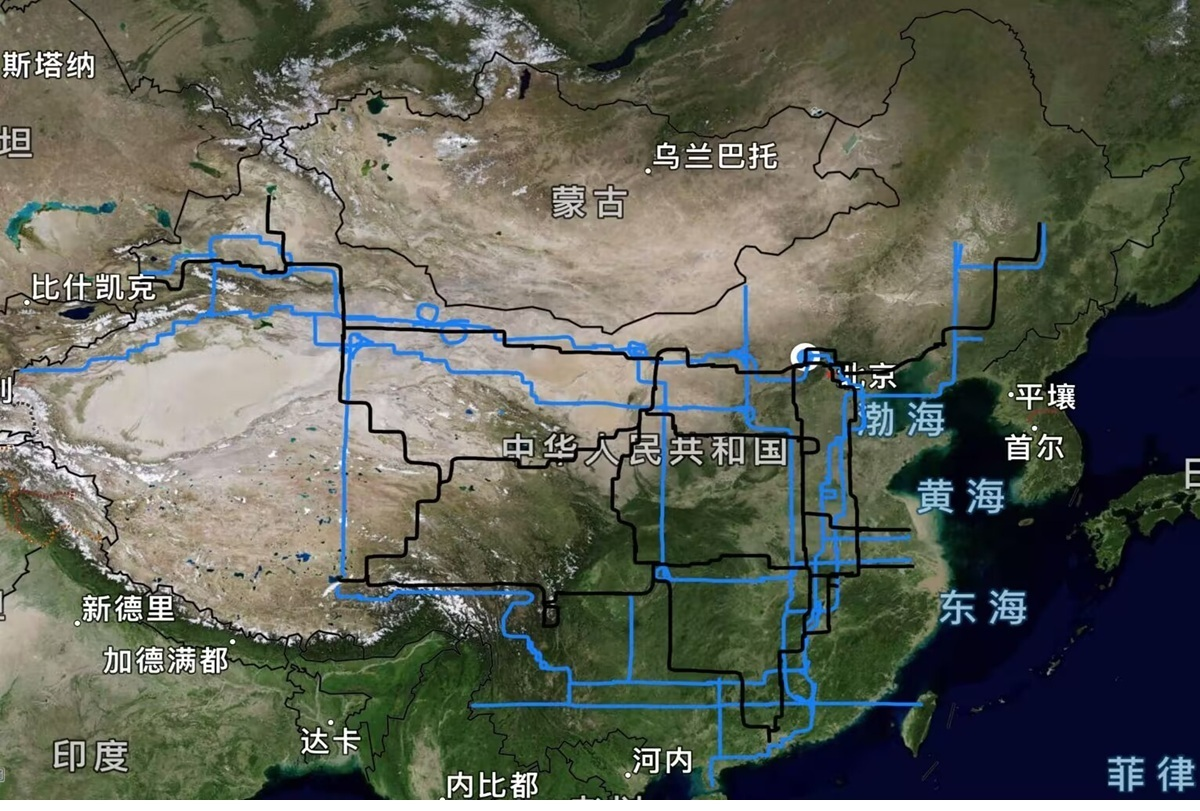
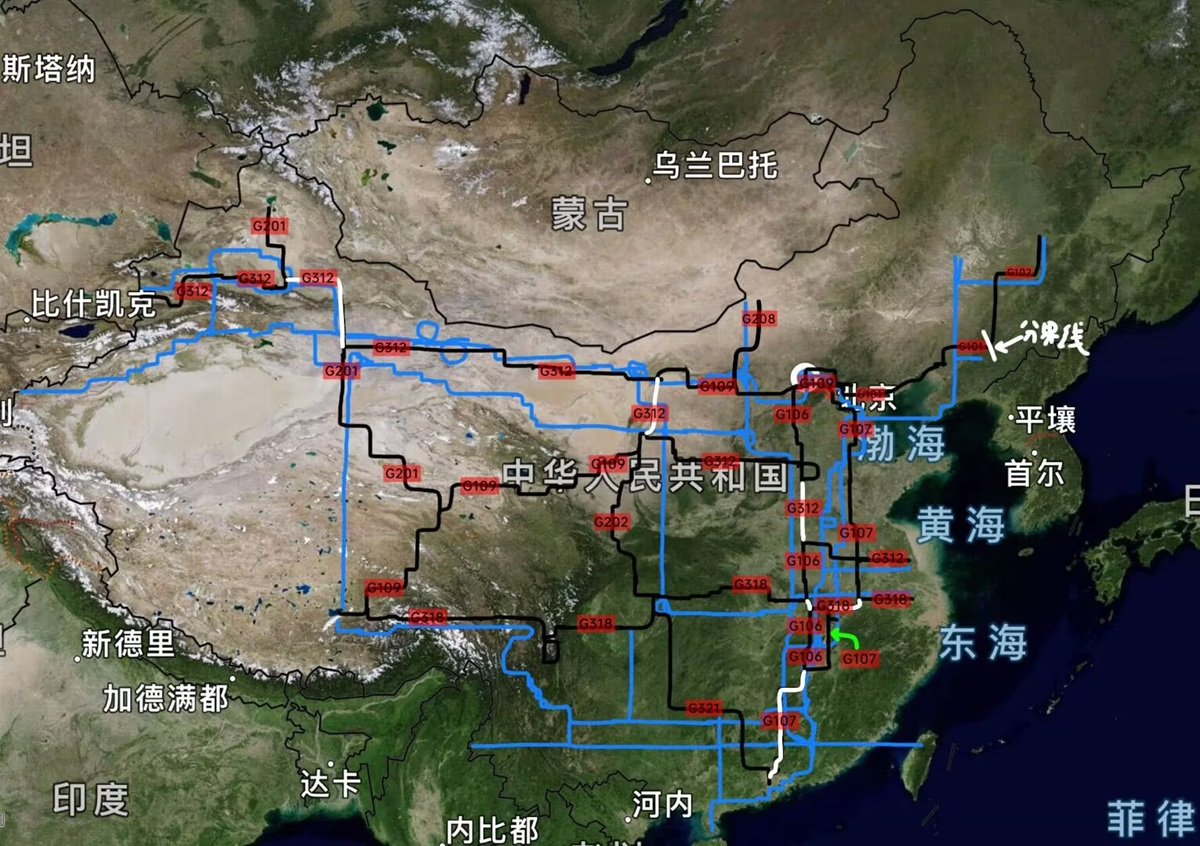
调整了微调偏移
还是不要一刀切好了

diff --git a/road/landmarks.js b/road/landmarks.js
@@ -373,7 +373,7 @@ let landmarks = [
         id: '乌鲁木齐',
         name: '乌鲁木齐市贴图',
         type: '仅图标',
-        positions: [[246, 251], [224, 252], [266, 256], [235, 251], [256, 258], [279, 264], [294, 252], [223, 276], [218, 229]],
+        positions: [[250, 281], [228, 282], [270, 286], [239, 281], [260, 288], [283, 294], [298, 282], [227, 306], [222, 259]],
         imageUrl: 'icon/城市.png',
         width: 20,
         height: 20,
@@ -428,7 +428,7 @@ let landmarks = [
         id: '乌鲁木齐',
         name: '乌鲁木齐的城市名称',
         type: '仅文本',
-        positions: [[256, 294]],
+        positions: [[260, 324]],
         text: '乌鲁木齐',
         textStyle: {
             // 字体属性
@@ -448,7 +448,7 @@ let landmarks = [
         id: '郑州市',
         name: '郑州市',
         type: '图文组合',
-        positions: [[828, 493]],
+        positions: [[833, 524]],
         imageUrl: 'icon/城市.png',
         width: 6.5,
         height: 4,
@@ -468,7 +468,7 @@ let landmarks = [
         id: '广州',
         name: '广州',
         type: '图文组合',
-        positions: [[751, 720], [760, 721], [755, 730], [775, 712], [770, 722], [770, 736], [780, 730], [740, 740], [750, 745]],
+        positions: [[751, 750], [760, 751], [755, 760], [775, 742], [770, 752], [770, 766], [780, 760], [740, 770], [750, 775]],
         imageUrl: 'icon/城市.png',
         width: 16,
         height: 16,
@@ -478,7 +478,7 @@ let landmarks = [
         id: '广州',
         name: '广州',
         type: '图文组合',
-        positions: [[790, 716]],
+        positions: [[790, 746]],
         imageUrl: 'icon/城市.png',
         width: 30,
         height: 20,
@@ -500,7 +500,7 @@ let landmarks = [
         id: '拉萨',
         name: '拉萨',
         type: '图文组合',
-        positions: [[339, 581]],
+        positions: [[348, 611]],
         imageUrl: 'icon/城市.png',
         width: 30,
         height: 20,
@@ -522,7 +522,7 @@ let landmarks = [
         id: '成都',
         name: '成都',
         type: '图文组合',
-        positions: [[628, 577]],
+        positions: [[636, 607]],
         imageUrl: 'icon/城市.png',
         width: 50,
         height: 40,
@@ -566,7 +566,7 @@ let landmarks = [
         id: '上海',
         name: '上海',
         type: '图文组合',
-        positions: [[914, 556]],
+        positions: [[910, 580]],
         imageUrl: 'icon/城市.png',
         width: 60,
         height: 60,
@@ -588,7 +588,7 @@ let landmarks = [
         id: '北京',
         name: '北京',
         type: '图文组合',
-        positions: [[821, 392]],
+        positions: [[821, 420]],
         imageUrl: 'icon/城市.png',
         width: 50,
         height: 50,
@@ -609,7 +609,7 @@ let landmarks = [
         id: '乌海市',
         name: '乌海市',
         type: '图文组合',
-        positions: [[631, 365]],
+        positions: [[631, 390]],
         imageUrl: 'icon/城市.png',
         width: 20,
         height: 20,
@@ -631,7 +631,7 @@ let landmarks = [
         id: '台北',
         name: '台北',
         type: '图文组合',
-        positions: [[927, 702]],
+        positions: [[927, 738]],
         imageUrl: 'icon/城市.png',
         width: 20,
         height: 20,
@@ -653,7 +653,7 @@ let landmarks = [
         id: '海口',
         name: '海口',
         type: '图文组合',
-        positions: [[710, 810]],
+        positions: [[716, 844]],
         imageUrl: 'icon/城市.png',
         width: 20,
         height: 20,
@@ -710,7 +710,7 @@ let landmarks = [
         id: '哈尔滨',
         name: '哈尔滨',
         type: '图文组合',
-        positions: [[1041, 212]],
+        positions: [[1045, 242]],
         imageUrl: 'icon/城市.png',
         width: 20,
         height: 20,
@@ -757,7 +757,7 @@ let landmarks = [
         // highwayId: ['G30沪霍'],
         name: 'G30连霍高速巴音郭勒立交桥',
         type: '仅图标',
-        positions: [[353, 345],], // 地图坐标 [x, y]
+        positions: [[358, 374],], // 地图坐标 [x, y]
         imageUrl: 'icon/交通枢纽.png', // 图标路径
         width: 18,
         group: '冰高速',
@@ -770,7 +770,7 @@ let landmarks = [
         id: 'G7的立交桥',
         name: 'G7的立交桥',
         type: '仅图标',
-        positions: [[637, 350],], // 地图坐标 [x, y]
+        positions: [[643, 379],], // 地图坐标 [x, y]
         imageUrl: 'icon/交通枢纽.png', // 图标路径
         width: 18,
         group: '冰高速',
@@ -782,7 +782,7 @@ let landmarks = [
         id: '成都东立交桥',
         name: '成都东立交桥',
         type: '仅图标',
-        positions: [[663, 572],], // 地图坐标 [x, y]
+        positions: [[669, 600],], // 地图坐标 [x, y]
         imageUrl: 'icon/交通枢纽.png', // 图标路径
         width: 18,
         group: '冰高速',
@@ -796,7 +796,7 @@ let landmarks = [
         id: '立交桥',
         name: '立交桥',
         type: '仅图标',
-        positions: [[745, 410],], // 地图坐标 [x, y]
+        positions: [[751, 439],], // 地图坐标 [x, y]
         imageUrl: 'icon/交通枢纽.png', // 图标路径
         width: 18,
         group: '冰高速',
@@ -804,6 +804,27 @@ let landmarks = [
         info: `
     
                    <p>这是一个交通枢纽，公路的分岔口</p>
+        `
+    },
+    {
+        id: 'G102',
+        name: 'G102',
+        type: '仅图标',
+        positions: [[1011, 290],], // 地图坐标 [x, y]
+        imageUrl: 'icon/G102.png', // 图标路径
+        width: 18,
+        group: '混凝土国道',
+        height: 18,
+        info: `
+                   <h3>G102京哈线</h3>
+                   <p><strong>类别：</strong>国家级干线公路</p>
+                   <p><strong>起点：</strong>北京市</p>
+                   <p><strong>终点：</strong>哈尔滨市</p>
+                   <p><strong>途径城市：</strong>北京</p>
+                   <p><strong>途径城市：</strong>沈阳</p>
+                   <p><strong>途径城市：</strong>哈尔滨</p>
+                   <p><strong>途径路段被共线国道：</strong>G101京沈线</p>
+                   <p><strong>简介：</strong>中国东北重要干线的国道</p>
         `
     },
 ];

diff --git a/road/config.js b/road/config.js
@@ -335,14 +335,52 @@ let config = {
 [353,345],[344,450],[344,574]
             ],
             width: 3,
+            info: `
+                   <h3>G102京哈线</h3>
+                   <p><strong>类别：</strong>国家级干线公路</p>
+                   <p><strong>起点：</strong>北京市</p>
+                   <p><strong>终点：</strong>哈尔滨市</p>
+                   <p><strong>途径城市：</strong>北京</p>
+                   <p><strong>途径城市：</strong>沈阳</p>
+                   <p><strong>途径城市：</strong>哈尔滨</p>
+                   <p><strong>途径路段被共线国道：</strong>G101京沈线</p>
+                   <p><strong>简介：</strong>中国东北重要干线<bold></bold>的国道</p>
+                   `
+        },
+        
+        
+        
+        
+        
+        
+        
+        
+        
+        
+        
+        
+        
+        
+        
+        //终于到了万众瞩目的混凝土国道部分了
+        {
+            id: 'G102',
+            name: 'G102',
+            group: '混凝土国道',
+            path: [
+[1039,236],[1039,274],[997,274],[992,343]
+            ],
+            width: 3,
             info: `                    
-                   <h3>G17新藏高速</h3>
-                   <p><strong>类别：</strong>主线</p>
-                   <p><strong>起点：</strong>G30连霍高速巴音郭勒立交桥</p>
-                   <p><strong>终点：</strong>拉萨</p>
-                   <p><strong>途径城市：</strong>拉萨</p>
-                   <p><strong>途径路段被共线高速：</strong>G6京藏高速</p>
-                   <p><strong>简介：</strong>中国跨越阶梯爬坡最<bold>陡</bold>的高速</p>
+                   <h3>G102京哈线</h3>
+                   <p><strong>类别：</strong>国家级干线公路</p>
+                   <p><strong>起点：</strong>北京市</p>
+                   <p><strong>终点：</strong>哈尔滨市</p>
+                   <p><strong>途径城市：</strong>北京</p>
+                   <p><strong>途径城市：</strong>沈阳</p>
+                   <p><strong>途径城市：</strong>哈尔滨</p>
+                   <p><strong>途径路段被共线国道：</strong>G101京沈线</p>
+                   <p><strong>简介：</strong>中国东北重要干线的国道</p>
                    `
         },
     ]

diff --git a/road/offsetConfig.js b/road/offsetConfig.js
@@ -1,26 +1,56 @@
 // offsetConfig.js - 偏移配置文件
 const offsetConfig = {
     // 全局偏移（应用于所有元素）
-    globalOffset: [5, 30], // [x, y] 偏移量
-    
+    globalOffset: [0, 0], // [x, y] 偏移量
+
     // 特定元素的偏移（覆盖全局偏移）
     specificOffsets: {
         // 公路偏移
         highways: {
-            // 'G0711': [5, 10], // 公路ID: [x偏移, y偏移]
-            // 'G30沪霍': [0, 5],
+            'G0711': [5, 30], // 公路ID: [x偏移, y偏移]
+            'G30沪霍': [5, 30],
+            '乌鲁木齐绕城': [5, 30],
+            'G7': [5, 30],
+            'G1': [5, 30],
+            'G45': [5, 30],
+            'G4': [5, 30],
+            'G13': [5, 30],
+            'G3': [5, 30],
+            'G2': [5, 30],
+            'G55': [5, 30],
+            'G5': [5, 30],
+            'G75': [5, 30],
+            'G14': [5, 30],
+            'S2': [5, 30],
+            'G67': [5, 30],
+            'G42': [5, 30],
+            'G17': [5, 30],
+            //混凝土国道
+            'G102': [3, 16],
             // 添加更多公路偏移...
         },
-        
+
         // 地标偏移
         landmarks: {
-            '台北': [0, 36], // 地标ID: [x偏移, y偏移]
-            '上海': [-6, 36], // 地标ID: [x偏移, y偏移]
-            '二连浩特': [-10, 15], // 地标ID: [x偏移, y偏移]
-            '三沙市': [0, 0], // 地标ID: [x偏移, y偏移]
-            '大庆': [0, 0], // 地标ID: [x偏移, y偏移]
-            
             // 添加更多地标偏移...
+            'G0711': [5, 30], 
+            'G30': [5, 30],
+            '乌鲁木齐绕城': [5, 30],
+            'G7京新高速': [5, 30],
+            'G1': [5, 30],
+            'G45': [5, 30],
+            'G4': [5, 30],
+            'G13': [5, 30],
+            'G3': [5, 30],
+            'G2': [5, 30],
+            'G55': [5, 30],
+            'G5': [5, 30],
+            'G75': [5, 30],
+            'G14': [5, 30],
+            'S2': [5, 30],
+            'G67': [5, 30],
+            'G42': [5, 30],
+            'G17': [5, 30],
         }
     }
 };
